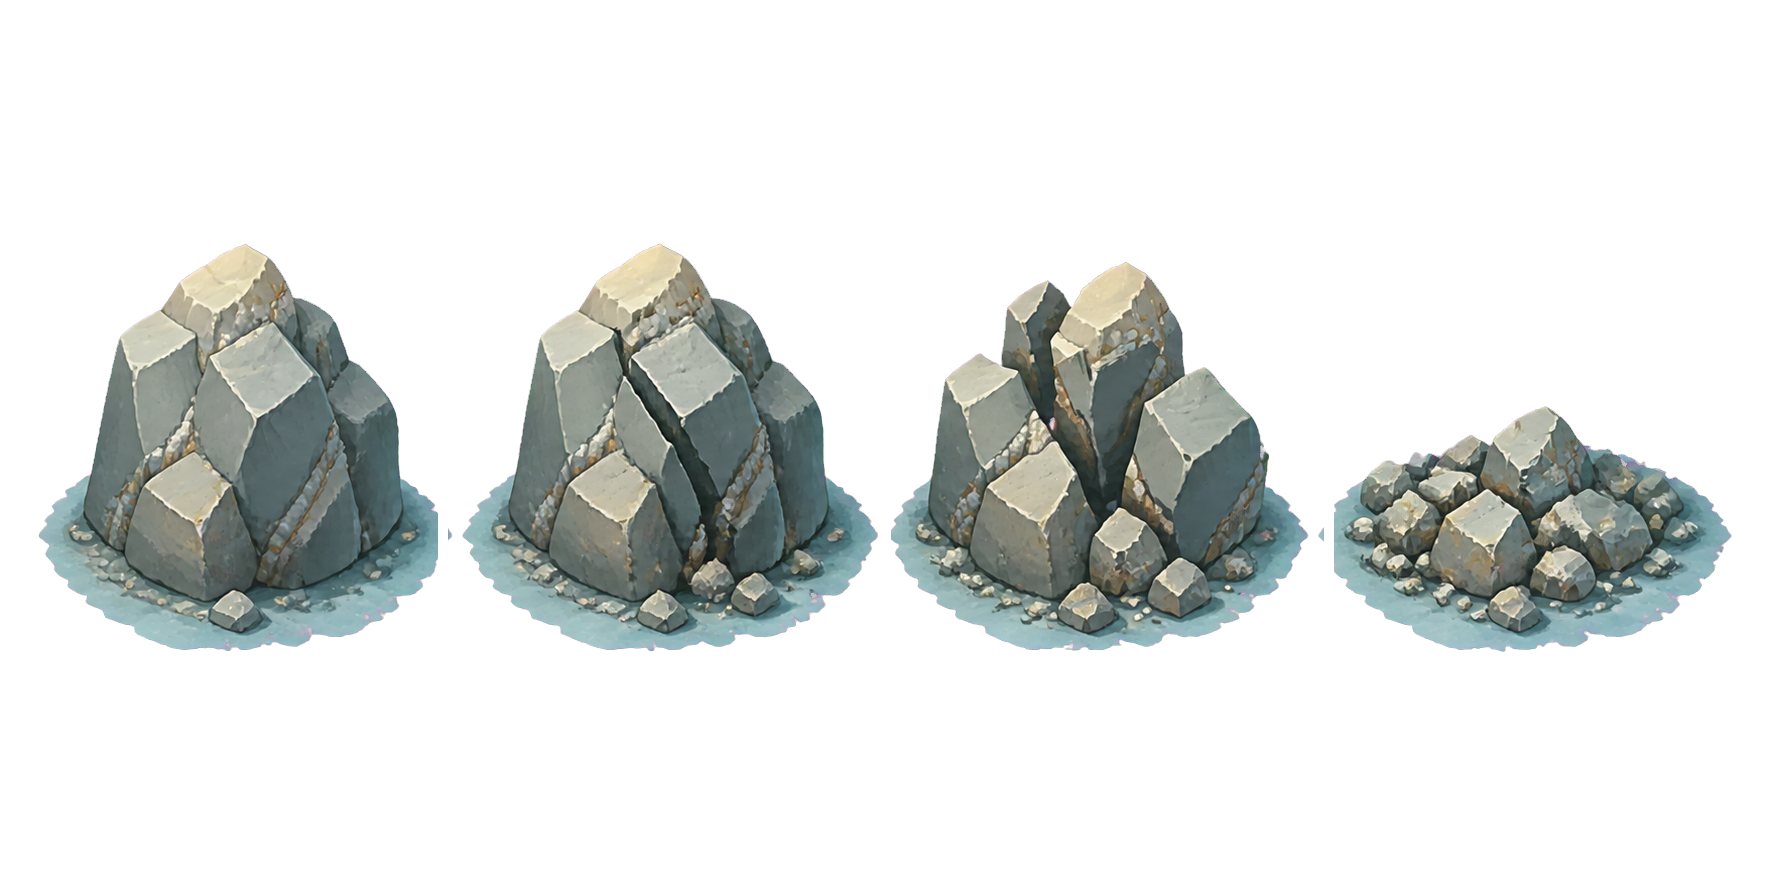
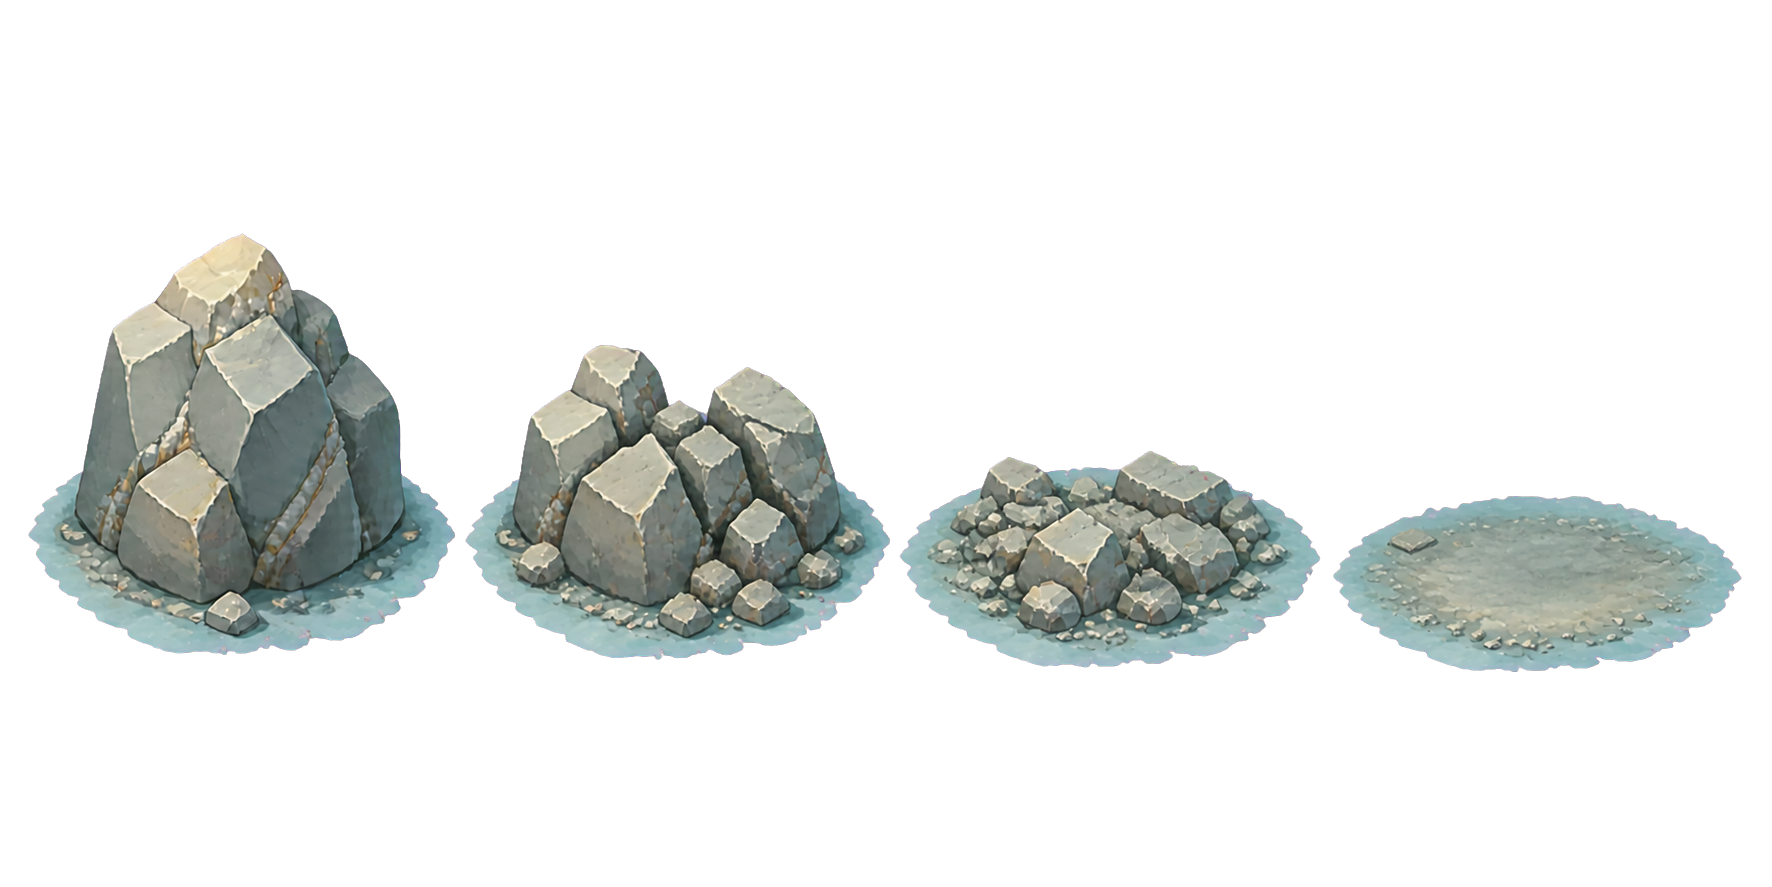
art: strengthen mining depletion stages

Changed region(s): [[0.2173, 0.274, 0.9932, 0.761], [0.0, 0.2435, 0.2483, 0.761]]

diff --git a/docs/validation/manual-gathering-validation.md b/docs/validation/manual-gathering-validation.md
@@ -13,7 +13,7 @@
 - 新树一次增加 5 木材（旧部分树只增加剩余量）；矿石一次增加当前全部剩余量。每次完整动作只扣除一次对应体力和 1 点工具耐久。
 - 仅 `pine-small`、`pine-tall`、`canopy-small`、`canopy-medium`、`round-small` 可砍；其他树显示红环并在点击时提示“此树不可砍伐”。
 - 五套透明图集各包含三张砍倒帧和一张同树种手绘树桩；固定向右倒向、根部基线、帧间交叉淡入淡出和取消恢复均通过视觉检查。
-- 矿石图集包含完整、裂开、破碎三张动作帧和一张手绘碎石帧；各帧独立地面注册，铁镐以柄末为圆心落在矿体左侧偏上的真实接触点。
+- 矿石图集包含完整、大幅缺损、严重坍塌三张动作帧和一张近乎清空的废弃地面帧；各帧独立地面注册，铁镐以柄末为圆心落在更靠左、更接近地基的真实接触点。
 - 镐子槽不显示种地方格阴影；可挖矿石显示绿色透明圆环，不可挖矿石显示红色透明圆环，开始动作后切换为黄色目标环与进度扇形。不可挖矿石只保留鼠标交互层，不阻挡玩家寻路；绿/红状态均通过真实相机射线验收。
 - 采集动作期间游戏时钟暂停；成功后精确推进 10 游戏分钟，23:55 开始的动作会在次日 06:05 完成。
 - 背包满、体力不足、工具损坏、不可达、目标失效以及任何主动取消均不会产生部分结算。
@@ -34,9 +34,9 @@
 | `tests/run_building_system_tests.gd` | PASS：921 |
 | `tests/run_economy_system_tests.gd` | PASS：64137 |
 | `tests/run_economy_ui_tests.gd` | PASS：126 |
-| `tests/run_main_gameplay_integration_tests.gd` | PASS：1081 |
+| `tests/run_main_gameplay_integration_tests.gd` | PASS：1085 |
 | `tests/run_resource_gathering_tests.gd` | PASS：175 |
-| `tests/run_gathering_visual_tests.gd` | PASS：135 |
+| `tests/run_gathering_visual_tests.gd` | PASS：139 |
 | `tests/run_main_gathering_integration_tests.gd` | PASS：117 |
 
 经济测试保留两项既有非阻塞警告：恶意 JSON 指数过高的防御性解析警告，以及水车施工阶段图缺失时启用程序化回退；本功能未新增解析错误、无效节点、孤立信号或时间锁警告。
@@ -61,8 +61,8 @@ godot --path . --display-driver windows --rendering-method gl_compatibility `
 | 固定向右倒向 | 通过 | 通过 | 通过 | 正常与旧反向输入均不水平翻转；三个砍倒帧和树桩均保持原树根部与地面基线 |
 | `+5 木材` 与手绘树桩 | 通过 | 通过 | 通过 | 本地化飘字可读，HUD 增加 5，灰色几何树桩已移除 |
 | 绿/红矿石资格 | 通过 | 通过 | 通过 | 镐子槽下透明绿/红圆环清晰，种地方格阴影不出现；动作开始后资格环正确让位于黄色目标环 |
-| 镐子动作与矿石三帧 | 通过 | 通过 | 通过 | 3 秒内以 0.8 秒周期重复挥镐，频率提高 50%；镐子缩小 50%，接触锚点略向左移，镐柄末端固定，镐头扇形下落并接触矿体；完整、裂开、破碎帧交叉淡入，无硬切或地面位移 |
-| 矿脉完整/受损/碎石 | 通过 | 通过 | 通过 | 程序化几何体已替换为同建筑风格的手绘矿体；裂纹、破碎和低矮手绘碎石阶段可区分 |
+| 镐子动作与矿石三帧 | 通过 | 通过 | 通过 | 3 秒内以 0.8 秒周期重复挥镐，频率提高 50%；镐子缩小 50%，接触锚点略向左并下移 0.05 米，镐柄末端固定，镐头扇形下落并接触矿体；三帧交叉淡入，无硬切或地面位移 |
+| 矿脉完整/受损/废弃 | 通过 | 通过 | 通过 | 第二帧高度不超过完整矿的 80%，第三帧不超过 60%；最终帧不超过 45%，绘制量少于完整矿的一半，只保留褪色地面、尘土和细碎石，不再呈现可采矿体 |
 | 背包已满 | 通过 | 通过 | 通过 | 失败文字居中，无裁切，不启动移动 |
 | 无法到达 | 通过 | 通过 | 通过 | 失败文字居中，无裁切，不产生结算 |
 

diff --git a/docs/superpowers/specs/2026-08-04-manual-gathering-design.md b/docs/superpowers/specs/2026-08-04-manual-gathering-design.md
@@ -244,9 +244,9 @@ state_version
 - 命中停顿 0.10 秒；
 - 回收 0.38 秒。
 
-采矿使用 `assets/resources/mining/ore-mining-sheet.png` 四格透明手绘图集：完整、裂开、破碎三张动作帧与一张采空碎石帧。3 秒动作按进度依次显示三帧，帧间采用 0.16 秒交叉淡出淡入；铁镐与斧头同为原始工具尺寸的 50%，以镐柄末端为固定圆心，以 0.8 秒挥动节奏重复，让镐头沿扇形落在矿体左侧偏上的接触点。接触锚点沿锁定相机平面略向左偏移，避免工具视觉过于贴近矿体中心。不同矿种复用同一造型并按资源目录颜色着色。
+采矿使用 `assets/resources/mining/ore-mining-sheet.png` 四格透明手绘图集：完整矿体、大幅缺损、严重坍塌三张动作帧与一张近乎清空的废弃地面帧。3 秒动作按进度依次显示前三帧，帧间采用 0.16 秒交叉淡出淡入；四帧分别检测地面注册点并对齐同一世界底座，矿体高度和绘制量必须逐帧显著下降，最终帧不得保留中大型可采石块。铁镐与斧头同为原始工具尺寸的 50%，以镐柄末端为固定圆心，以 0.8 秒挥动节奏重复，让镐头沿扇形落在矿体左侧偏上的接触点。接触锚点沿锁定相机平面略向左偏移并向地基下调 0.05 米。不同矿种复用同一造型并按资源目录颜色着色。
 
-命中时树木切换缺口、倾斜、近倒地三帧并产生木屑；矿石切换完整、裂开、破碎三帧，采空后显示图集内的手绘碎石。树木结束后显示同树种手绘树桩；事务只在完整动作结束时提交，取消时工具平滑返回、恢复原始资源且不产出。
+命中时树木切换缺口、倾斜、近倒地三帧并产生木屑；矿石切换完整、大幅缺损、严重坍塌三帧，采空后只显示图集内的褪色地面痕迹、尘土与少量细碎石。树木结束后显示同树种手绘树桩；事务只在完整动作结束时提交，取消时工具平滑返回、恢复原始资源且不产出。
 
 树木与矿石的帧切换都不依赖图集单元格中心。系统分别检测每一帧底部可见像素的地面注册点；矿石以每格可见内容底部 10% 取样，因此即使图集存在透明留白或碎石左右偏心也不会退化为单元格中心。普通切帧和交叉淡入淡出的两个精灵都按各自注册点对齐到原资源根部，保证全过程根部与地面基线不移动。树木另外以原树透明像素的可见宽高统一第 1 帧尺寸。
 

diff --git a/docs/superpowers/specs/2026-08-05-single-action-mining-design.md b/docs/superpowers/specs/2026-08-05-single-action-mining-design.md
@@ -19,7 +19,7 @@
 
 ## 动画
 
-现有完整、裂开、破碎三帧覆盖新的 3 秒动作，继续采用 0.16 秒交叉淡出淡入。铁镐保持当前柄末轴心、左肩接触点和挥动姿态。动作成功后显示第四格手绘碎石；取消时恢复动作开始前的矿石阶段。
+完整、大幅缺损、严重坍塌三帧覆盖 3 秒动作，继续采用 0.16 秒交叉淡出淡入。每帧独立注册到同一地面底座，轮廓高度与绘制量逐帧明显下降。铁镐保持柄末轴心和扇形挥动姿态，接触点略向左、向下调整。动作成功后显示第四格近乎清空的废弃地面痕迹，只保留尘土与细碎石；取消时恢复动作开始前的矿石阶段。
 
 ## 悬停资格与方格阴影
 
